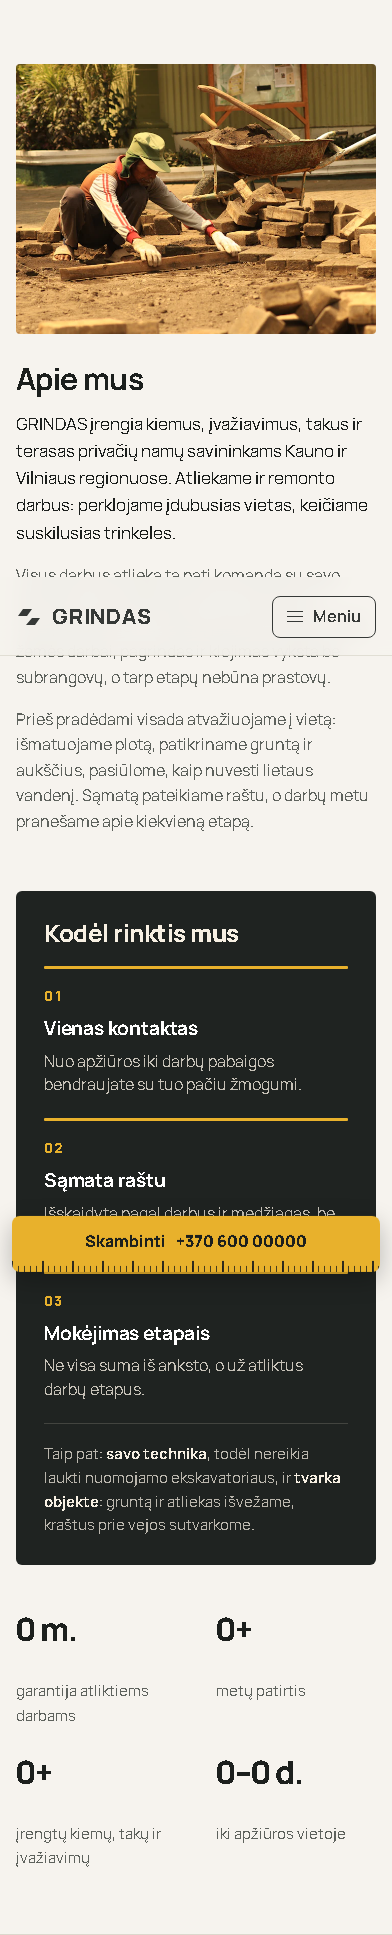
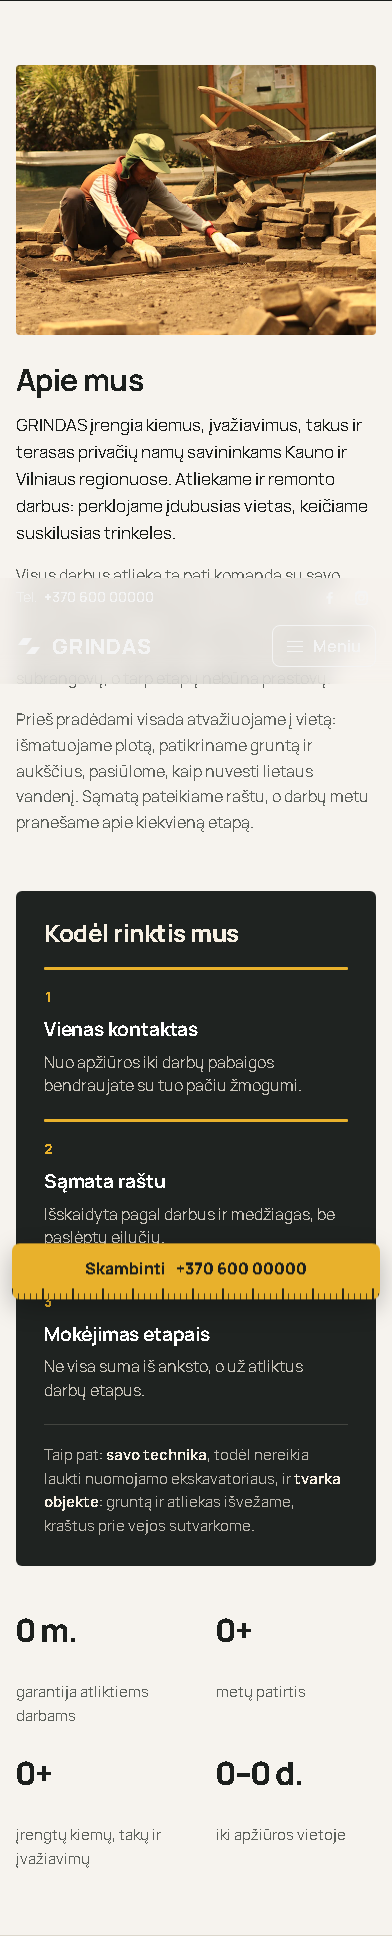
Trumpesni hero ir Apie mus tekstai, Kodėl rinktis mus be nulių, be pažado eilutės

diff --git a/index.html b/index.html
@@ -16,7 +16,7 @@
   <link rel="preload" as="style" href="https://fonts.googleapis.com/css2?family=Manrope:wght@400;500;600;700;800&display=swap" onload="this.onload=null;this.rel='stylesheet'">
   <noscript><link rel="stylesheet" href="https://fonts.googleapis.com/css2?family=Manrope:wght@400;500;600;700;800&display=swap"></noscript>
   <link rel="preload" as="image" href="assets/img/photos/trinkeliu-klojimas.webp" imagesrcset="assets/img/photos/trinkeliu-klojimas-900.webp 900w, assets/img/photos/trinkeliu-klojimas.webp 1672w" imagesizes="100vw" fetchpriority="high">
-  <link rel="stylesheet" href="assets/css/styles.css?v=20261122-4">
+  <link rel="stylesheet" href="assets/css/styles.css?v=20261122-6">
   <script>
     if ("IntersectionObserver" in window && !(window.matchMedia && matchMedia("(prefers-reduced-motion: reduce)").matches)) {
       document.documentElement.classList.add("hero-anim");
@@ -70,7 +70,7 @@
       <div class="hero-shade" aria-hidden="true"></div>
       <div class="wrap hero-inner">
         <h1 id="hero-title" class="hero-title">Trinkelių klojimas ir kiemo įrengimas</h1>
-        <p class="hero-lead"><strong>GRINDAS yra trinkelių klojimo įmonė Kauno ir Vilniaus regionuose.</strong> Įrengiame kiemus, įvažiavimus ir takus, ruošiame pagrindą, statome bortelius ir taisome įdubusias ar išklibusias trinkelių dangas.</p>
+        <p class="hero-lead">Esame meistrų komanda, kuri Kauno ir Vilniaus regionuose įrengia kiemus, įvažiavimus bei takus ir remontuoja seną trinkelių dangą.</p>
         <div class="hero-actions">
           <a class="btn btn-tape" href="#planuoklis">Apskaičiuoti kainą <span class="arrow" aria-hidden="true">→</span></a>
           <a class="btn btn-ghost" href="#kontaktai" data-tel>Skambinti</a>
@@ -83,9 +83,6 @@
           <a href="#p-vanduo" data-open-service="p-vanduo">Lietaus vandens nuvedimas</a>
           <a href="#p-remontas" data-open-service="p-remontas">Trinkelių remontas</a>
         </nav>
-        <ul class="hero-notes" role="list">
-          <li data-promise></li>
-        </ul>
       </div>
       <p class="demo-tag">Demo projektas</p>
     </section>
@@ -101,21 +98,18 @@
         </figure>
         <div class="about-text">
           <h2 id="about-title" class="h2">Apie mus</h2>
-          <p class="lede">GRINDAS įrengia kiemus, įvažiavimus, takus ir terasas privačių namų savininkams Kauno ir Vilniaus regionuose. Atliekame ir remonto darbus: perklojame įdubusias vietas, keičiame suskilusias trinkeles.</p>
-          <p>Visus darbus atlieka ta pati komanda su savo technika: mini ekskavatoriumi, savivarčiu, vibroplokštėmis ir trinkelių pjovimo įranga. Todėl žemės darbai, pagrindas ir klojimas vyksta be subrangovų, o tarp etapų nebūna prastovų.</p>
-          <p>Prieš pradėdami visada atvažiuojame į vietą: išmatuojame plotą, patikriname gruntą ir aukščius, pasiūlome, kaip nuvesti lietaus vandenį. Sąmatą pateikiame raštu, o darbų metu pranešame apie kiekvieną etapą.</p>
+          <p class="lede">Nuo žemės kasimo iki trinkelių klojimo jūsų kieme dirba ta pati komanda. Turime savo mini ekskavatorių, savivartį ir klojimo įrangą, todėl visus darbus atliekame patys.</p>
         </div>
       </div>
 
       <div class="wrap">
         <div class="why">
           <h3 id="why-title" class="why-title">Kodėl rinktis mus</h3>
-          <ol class="why-list" role="list">
-            <li><span class="why-n" aria-hidden="true">01</span><h4>Vienas kontaktas</h4><p>Nuo apžiūros iki darbų pabaigos bendraujate su tuo pačiu žmogumi.</p></li>
-            <li><span class="why-n" aria-hidden="true">02</span><h4>Sąmata raštu</h4><p>Išskaidyta pagal darbus ir medžiagas, be paslėptų eilučių.</p></li>
-            <li><span class="why-n" aria-hidden="true">03</span><h4>Mokėjimas etapais</h4><p>Ne visa suma iš anksto, o už atliktus darbų etapus.</p></li>
-          </ol>
-          <p class="why-more">Taip pat: <strong>savo technika</strong>, todėl nereikia laukti nuomojamo ekskavatoriaus, ir <strong>tvarka objekte</strong>: gruntą ir atliekas išvežame, kraštus prie vejos sutvarkome.</p>
+          <ul class="why-list" role="list">
+            <li><span class="why-n" aria-hidden="true">1</span><h4>Vienas kontaktas</h4><p>Nuo pirmos apžiūros iki darbų pabaigos bendraujate su tuo pačiu žmogumi.</p></li>
+            <li><span class="why-n" aria-hidden="true">2</span><h4>Sąmata raštu</h4><p>Prieš pradedant darbus gaunate sąmatą, kurioje atskirai nurodytos darbų ir medžiagų kainos.</p></li>
+            <li><span class="why-n" aria-hidden="true">3</span><h4>Mokėjimas etapais</h4><p>Už kiekvieną darbų etapą mokate jį užbaigus.</p></li>
+          </ul>
         </div>
       </div>
 
@@ -475,7 +469,7 @@
             <li><span class="step-n">03</span><strong>Sąmata</strong><span>Raštu, su terminu.</span></li>
             <li><span class="step-n">04</span><strong>Pagrindas</strong><span>Kasimas, borteliai, skalda.</span></li>
             <li><span class="step-n">05</span><strong>Klojimas</strong><span>Trinkelės, siūlės, vibravimas.</span></li>
-            <li><span class="step-n">06</span><strong>Sutvarkymas</strong><span>Atliekos išvežamos.</span></li>
+            <li><span class="step-n">06</span><strong>Sutvarkymas</strong><span>Išvežame gruntą bei atliekas ir sutvarkome kraštus prie vejos.</span></li>
           </ol>
         </div>
       </div>
@@ -503,10 +497,10 @@
 
   <a class="call-bar" href="#kontaktai" data-tel aria-label="Skambinti">Skambinti <span data-biz="phoneText"></span></a>
 
-  <script src="assets/js/config.js?v=20261122-4"></script>
-  <script src="assets/js/calc.js?v=20261122-4"></script>
-  <script src="assets/js/paving.js?v=20261122-4"></script>
-  <script src="assets/js/planner.js?v=20261122-4"></script>
-  <script src="assets/js/main.js?v=20261122-4"></script>
+  <script src="assets/js/config.js?v=20261122-6"></script>
+  <script src="assets/js/calc.js?v=20261122-6"></script>
+  <script src="assets/js/paving.js?v=20261122-6"></script>
+  <script src="assets/js/planner.js?v=20261122-6"></script>
+  <script src="assets/js/main.js?v=20261122-6"></script>
 </body>
 </html>

diff --git a/privatumas.html b/privatumas.html
@@ -10,7 +10,7 @@
   <link rel="preconnect" href="https://fonts.googleapis.com">
   <link rel="preconnect" href="https://fonts.gstatic.com" crossorigin>
   <link href="https://fonts.googleapis.com/css2?family=Manrope:wght@400;500;600;700;800&display=swap" rel="stylesheet">
-  <link rel="stylesheet" href="assets/css/styles.css?v=20261122-4">
+  <link rel="stylesheet" href="assets/css/styles.css?v=20261122-6">
   <style>
     .policy { max-width: 760px; padding-top: 56px; padding-bottom: 96px; }
     .policy h1 { margin-bottom: .3em; }

diff --git a/assets/js/config.js b/assets/js/config.js
@@ -160,7 +160,6 @@ window.GRINDAS_CONFIG = {
   curbs: { label: "Borteliai", price: [14, 22] },
 
   /* Pažadas klientui: rodomas hero bloke. DEMO: pakeiskite tikru. */
-  promise: "Apžiūra ir sąmata nemokamai. Perskambiname per 1 darbo dieną.",
 
   /* Dangos sluoksniai, cm (nuo–iki). ORIENTACINIAI: tikslų storį nustatome apžiūrėję gruntą. */
   layers: {

diff --git a/assets/js/main.js b/assets/js/main.js
@@ -374,7 +374,6 @@
   })();
 
   /* ---------- Pažadas klientui ---------- */
-  document.querySelectorAll("[data-promise]").forEach(function (n) { n.textContent = cfg.promise || ""; });
   document.querySelectorAll("[data-region]").forEach(function (n) { n.textContent = biz.region || ""; });
 
   /* ---------- Prieš / po schema ---------- */
